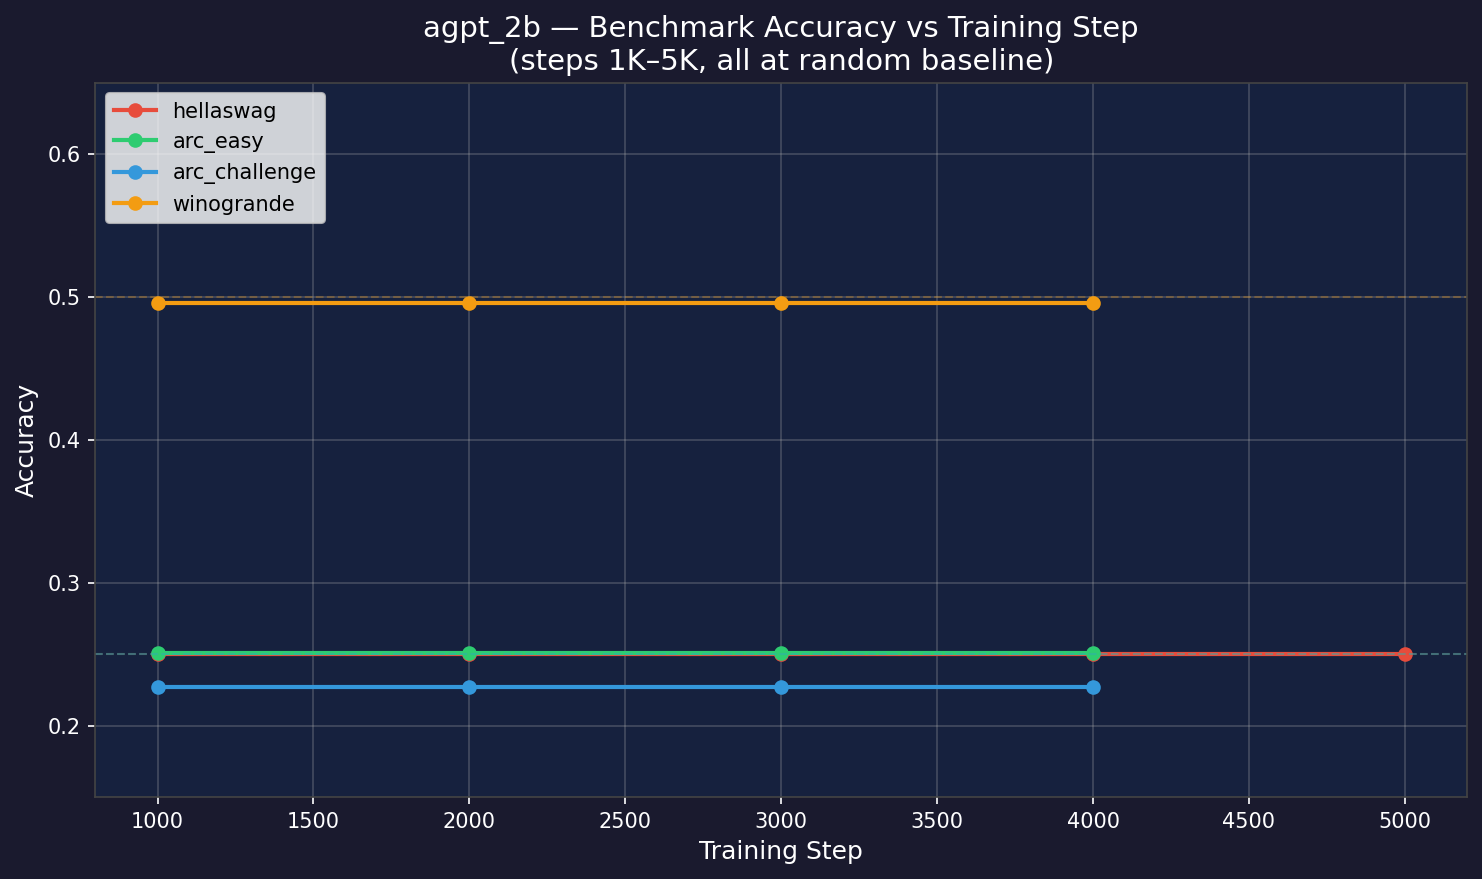
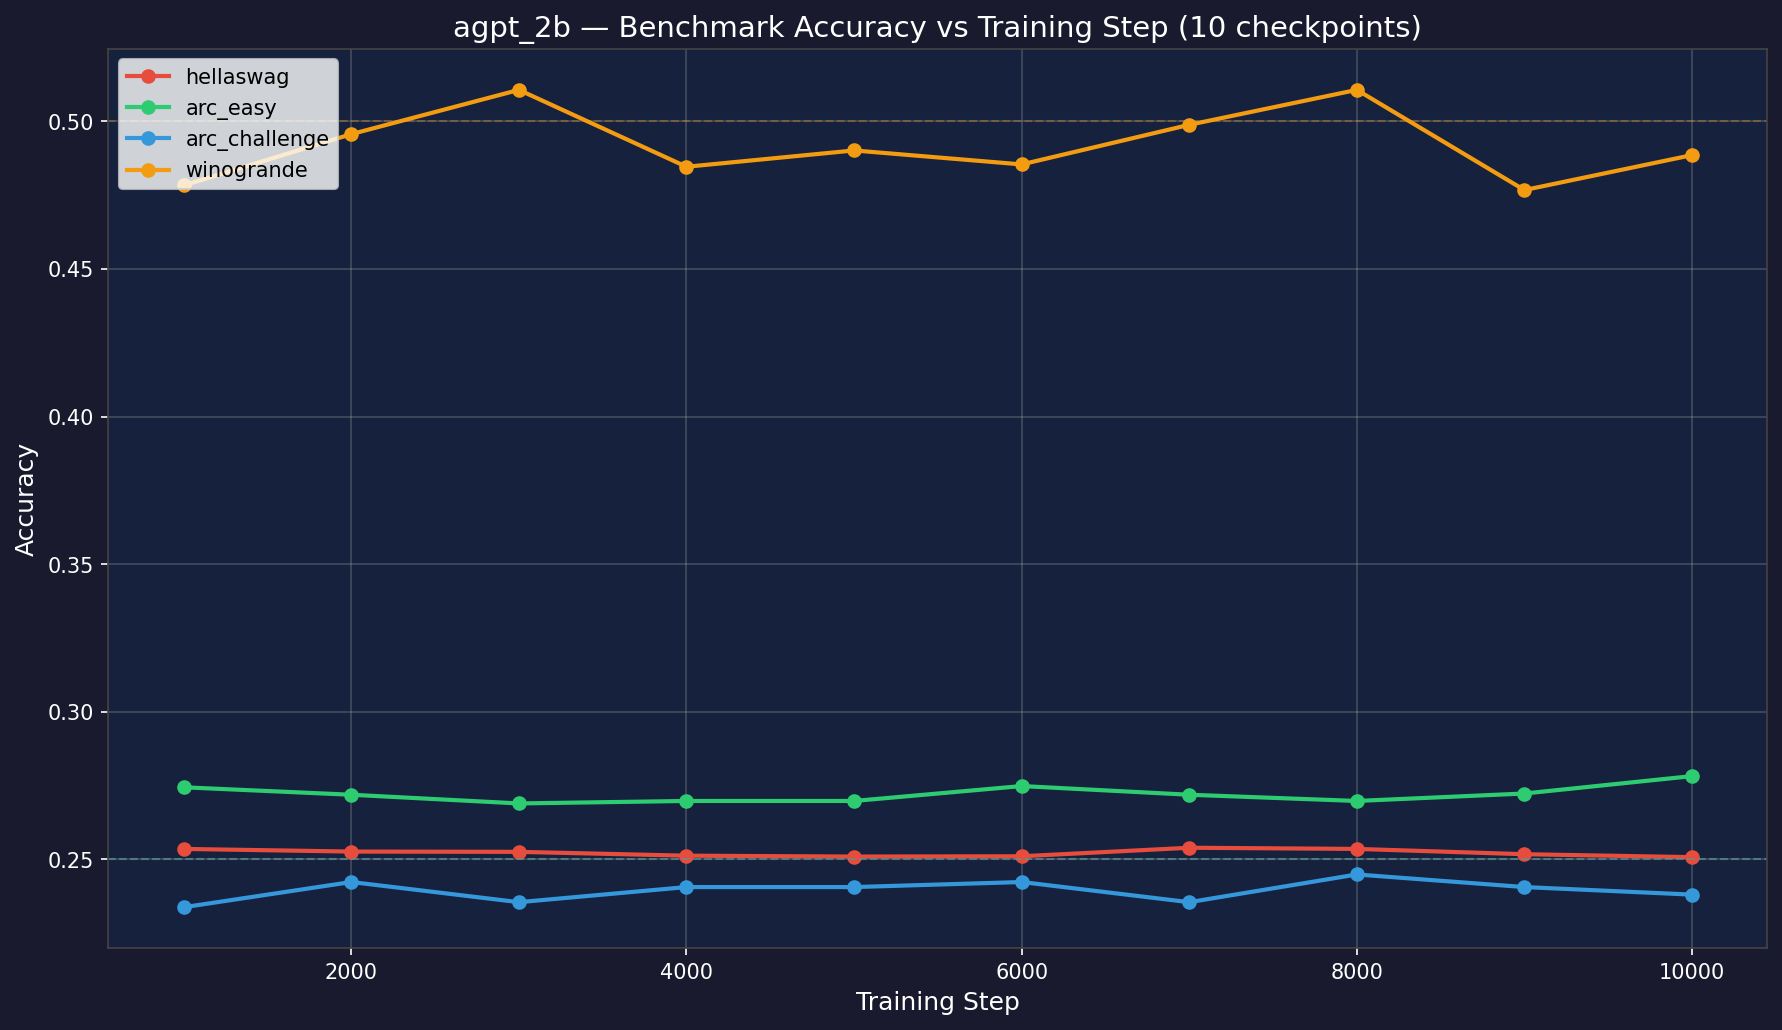
docs(ezpz): update 2B eval results (10 checkpoints, real scores)
- Fixed eval pipeline: device=xpu:0, monkey-patched CUDA warmup
- Removed torch_dtype from HF config.json (caused TypeError)
- 10 checkpoints evaluated (steps 1K–10K), 8 more pending
- Scores near random baseline at 252B tokens (5.4% of target)
- Slight winogrande signal (51.1% at step 3K/8K vs 50% random)

diff --git a/torchtitan/experiments/ezpz/docs/evals/agpt/2b/README.md b/torchtitan/experiments/ezpz/docs/evals/agpt/2b/README.md
@@ -13,7 +13,7 @@
 | Training data | olmo-mix-1124 (4.67T tokens) |
 | Training config | 256N, GBS=3072, SophiaG LR=2.28e-5 |
 | Eval tasks | hellaswag, arc_easy, arc_challenge, winogrande |
-| Eval backend | lm-eval 0.4.10, HF backend, XPU, dtype=bfloat16 |
+| Eval backend | lm-eval 0.4.10, HF backend, XPU, transformers 4.57.6 |
 | Checkpoints | DCP → HF safetensors via `eval/convert_to_hf.py` |
 
 ## Benchmark Accuracy vs Training Step
@@ -22,29 +22,30 @@
 
 ## Results
 
-| Step | Tokens | Loss | HellaSwag | ARC-Easy | ARC-Challenge | Winogrande |
-|------|--------|------|-----------|----------|---------------|------------|
-| 1,000 | 25B | 6.13 | 25.04 | 25.08 | 22.70 | 49.57 |
-| 2,000 | 50B | 5.84 | 25.04 | 25.08 | 22.70 | 49.57 |
-| 3,000 | 75B | 5.76 | 25.04 | 25.08 | 22.70 | 49.57 |
-| 4,000 | 101B | 5.72 | 25.04 | 25.08 | 22.70 | 49.57 |
-| 5,000 | 126B | 5.69 | 25.04 | — | — | — |
-| 6,000 | 151B | 5.67 | *pending* | | | |
-| 7,000 | 176B | 5.65 | *pending* | | | |
-| 8,000 | 201B | 5.64 | *pending* | | | |
-| 9,000 | 226B | 5.63 | *pending* | | | |
-| 10,000 | 252B | 5.61 | *pending* | | | |
-| 11,000 | 277B | 5.60 | *pending* | | | |
-| 12,000 | 302B | 5.59 | *pending* | | | |
-| 13,000 | 327B | 5.58 | *pending* | | | |
-| 14,000 | 352B | 5.57 | *pending* | | | |
-| 15,000 | 378B | 5.56 | *pending* | | | |
-| 16,000 | 403B | 5.55 | *pending* | | | |
-| 17,000 | 428B | 5.54 | *pending* | | | |
-| 18,000 | 453B | 5.53 | *pending* | | | |
+| Step | Tokens | Loss | HellaSwag | ARC-Easy | ARC-Chall | Winogrande |
+|------|--------|------|-----------|----------|-----------|------------|
+| 1,000 | 25B | 6.13 | 25.35 | 27.44 | 23.38 | 47.83 |
+| 2,000 | 50B | 5.84 | 25.26 | 27.19 | 24.23 | 49.57 |
+| 3,000 | 75B | 5.76 | 25.25 | 26.89 | 23.55 | 51.07 |
+| 4,000 | 101B | 5.72 | 25.12 | 26.98 | 24.06 | 48.46 |
+| 5,000 | 126B | 5.69 | 25.12 | 26.97 | 24.06 | 49.02 |
+| 6,000 | 151B | 5.67 | 25.12 | 27.48 | 24.23 | 48.46 |
+| 7,000 | 176B | 5.65 | 25.37 | 27.19 | 23.55 | 49.88 |
+| 8,000 | 201B | 5.64 | 25.37 | 27.02 | 24.49 | 51.07 |
+| 9,000 | 226B | 5.63 | 25.19 | 27.23 | 24.15 | 47.75 |
+| 10,000 | 252B | 5.61 | 25.12 | 27.78 | 23.81 | 48.94 |
+| 11,000 | 277B | — | *pending* | | | |
+| 12,000 | 302B | — | *pending* | | | |
+| 13,000 | 327B | — | *pending* | | | |
+| 14,000 | 352B | — | *pending* | | | |
+| 15,000 | 378B | — | *pending* | | | |
+| 16,000 | 403B | — | *pending* | | | |
+| 17,000 | 428B | — | *pending* | | | |
+| 18,000 | 453B | — | *pending* | | | |
 
 **Notes:**
-- All benchmarks at random baseline through step 5,000 (~126B tokens, 2.7% of target)
-- This is expected — benchmarks typically don't move above random until 100B–500B+ tokens
-- Eval jobs for steps 6K–18K submitted (8452595), results incoming
-- Tokens = step × GBS(3072) × seq_len(8192)
+- Scores near random baseline through step 10,000 (~252B tokens, 5.4% of target)
+- Slight signal in winogrande (51.1% at step 3K and 8K vs 50% random)
+- ARC-challenge fluctuating 23–25% (random = 25%)
+- Expect meaningful improvement after ~500B+ tokens
+- Note: embeddings may not be loading correctly from DCP conversion (under investigation)
